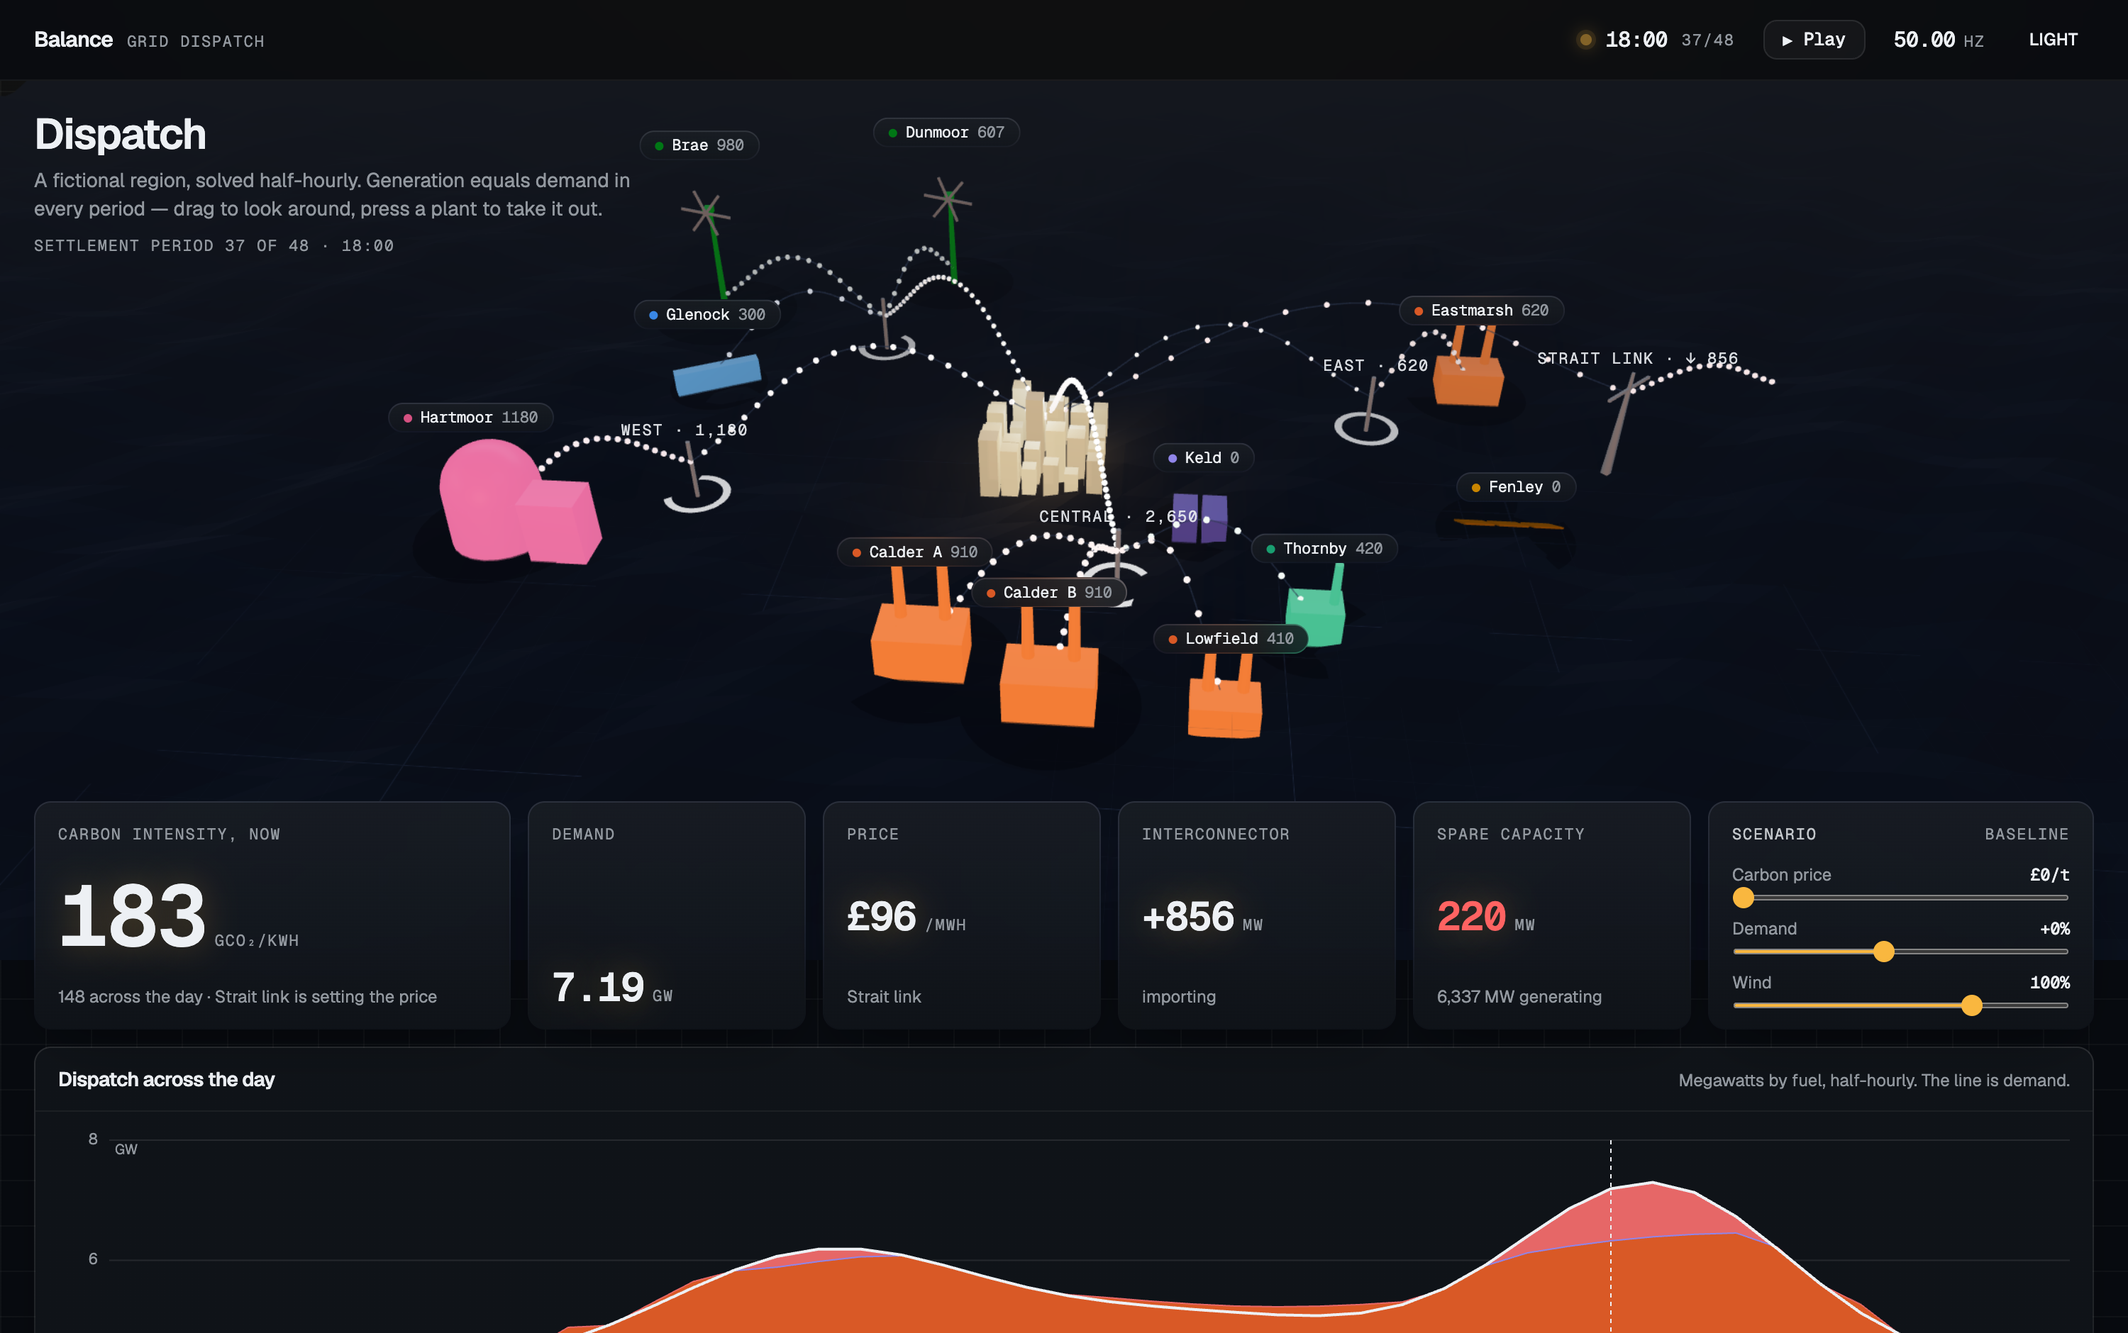
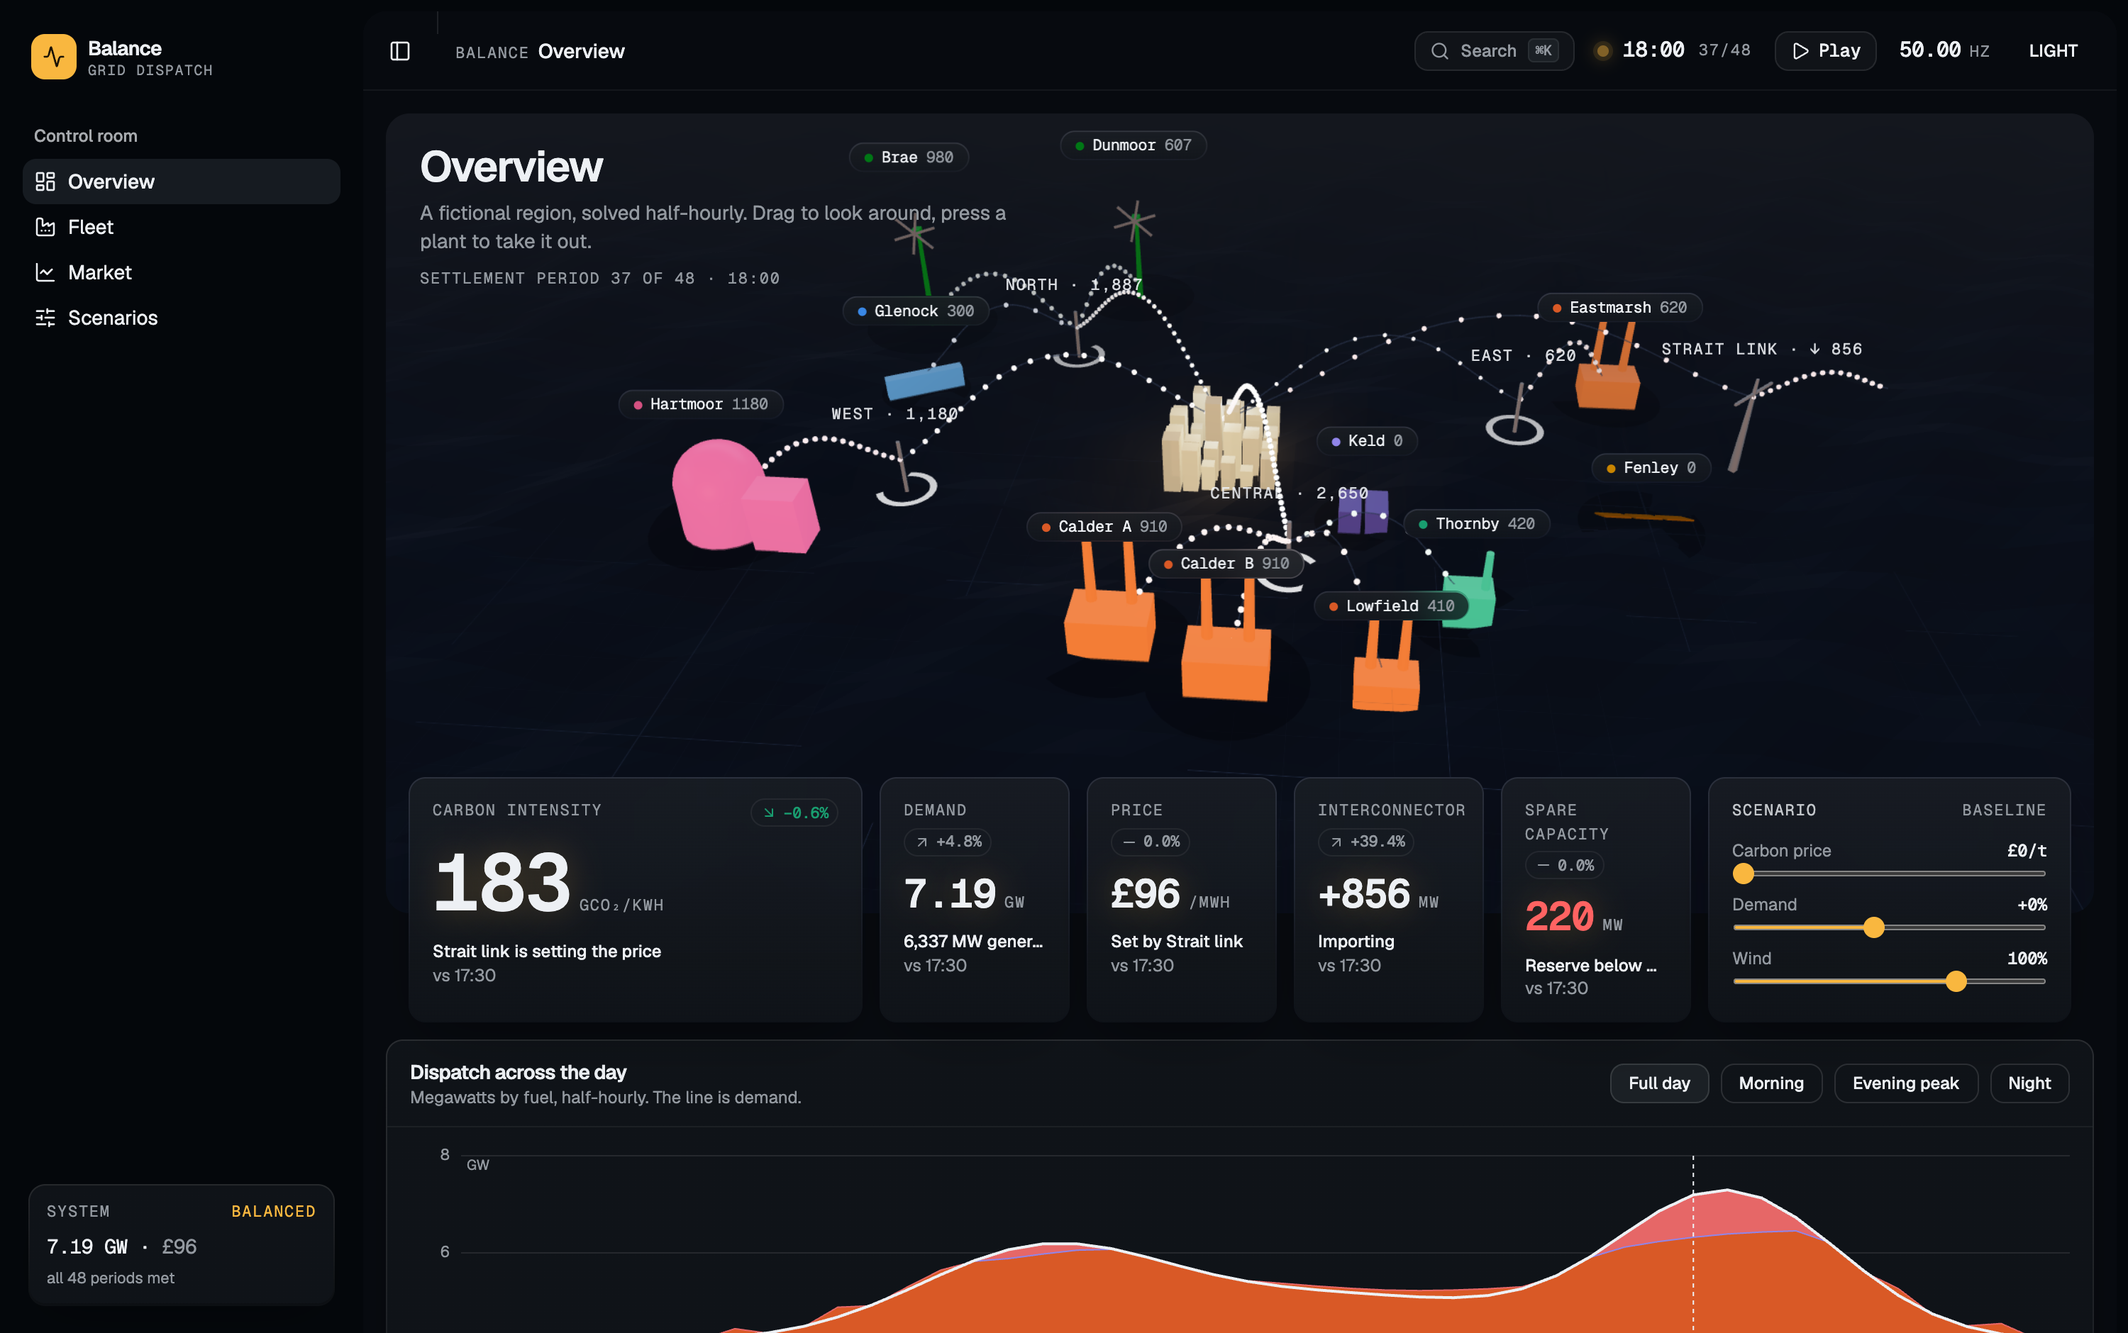
docs: README and screenshots for the product shell; drawer badge clear of its close button

diff --git a/src/features/overview/OverviewPage.tsx b/src/features/overview/OverviewPage.tsx
@@ -84,7 +84,7 @@ export function OverviewPage() {
             decimals={2}
             unit="GW"
             goodWhen="none"
-            insight={`${Math.round(generation).toLocaleString("en-GB")} MW generating`}
+            insight={`${Math.round(generation).toLocaleString("en-GB")} MW on`}
             basis={basis}
           />
           <KpiCard
@@ -118,9 +118,7 @@ export function OverviewPage() {
             unit="MW"
             goodWhen="up"
             tone={headroom < 500 ? "warning" : "normal"}
-            insight={
-              headroom < 500 ? "Reserve below 500 MW" : "Reserve healthy"
-            }
+            insight={headroom < 500 ? "Reserve thin" : "Reserve healthy"}
             basis={basis}
           />
           <ScenarioPanel className="glass col-span-2 lg:col-span-1" />

diff --git a/src/features/fleet/UnitSheet.tsx b/src/features/fleet/UnitSheet.tsx
@@ -74,7 +74,7 @@ export function UnitSheet({
         {unit && out ? (
           <div className="flex h-full flex-col gap-5 overflow-y-auto px-5 pb-6">
             <SheetHeader className="px-0">
-              <div className="flex items-center gap-2">
+              <div className="flex items-center gap-2 pr-8">
                 <span
                   className="size-2.5 rounded-sm"
                   style={{ backgroundColor: fuelVar(unit.fuel as Series) }}

diff --git a/README.md b/README.md
@@ -1,75 +1,75 @@
 # Balance
 
-A control room for a region that does not exist, solved half-hourly, where every number on the screen — and every particle moving across the map — is the output of one model.
-
-Eleven generating units, four nodes, an interconnector and a city, dispatched across forty-eight settlement periods. Press **Play** and the day runs: the sun crosses the region, the solar farm wakes at nine, the city lights come up at dusk, and the instruments roll with the clock. Press a plant to take it out and the whole day re-solves — a dearer unit is called, the price moves, the carbon intensity moves with it, the particles feeding the city from the east thicken, and if the system can no longer meet demand the frequency droops and it says so.
+A grid control room for a region that does not exist, solved half-hourly, built the way a product dashboard is built — a rail, four pages, a command palette, KPI cards that compare against the last half-hour, a table you can filter and page — where every number on every page, and every particle moving across the map, is the output of one model.
 
 **Live:** <https://balance-dispatch.pages.dev>
 
-![The control room at the evening peak: the region in three dimensions, power moving along the lines to the city, the instruments laid over its foot](docs/dashboard.png)
+![Overview: the region in three dimensions, power moving along the lines to the city, KPI cards with their trend against the previous half-hour, the levers](docs/dashboard.png)
 
 ---
 
 ## The one rule
 
-Nothing is typed into a component. Every figure — the tiles, the masthead clock and frequency, the stacked day, the supply curve, the diagram, the table, and the width, count and speed of every particle in the scene — is derived from [`src/lib/grid/`](src/lib/grid), and the arithmetic has one invariant:
+Nothing is typed into a component. Every figure — the rail's status card, the masthead clock and frequency, the KPI trend badges, the stacked day, the supply curve, the settlement table, the events feed, and the width, count and speed of every particle in the scene — is derived from [`src/lib/grid/`](src/lib/grid), and the arithmetic has one invariant:
 
 ```
 generation + imports + unserved === demand + exports
 ```
 
-to within 0.1 MW, in all forty-eight periods, under every lever, and still true with the two largest units out. That is the first test in [`dispatch.test.ts`](src/lib/grid/dispatch.test.ts), and it is the reason the rest of the room can be trusted to agree with itself.
+to within 0.1 MW, in all forty-eight periods, under every lever, and still true with the two largest units out. That is the first test in [`dispatch.test.ts`](src/lib/grid/dispatch.test.ts), and it is the reason four pages can be trusted to agree with each other.
+
+## The pages
+
+**Overview.** The region as a place: plants where they stand, sized by capacity and lit by their output; power as particles, a count of them proportional to the megawatts and a speed set by how hard the plant behind them is working; the sun crossing with the clock, the city lighting at dusk. Beneath it, the instruments: five KPI cards with a trend badge against the previous half-hour, the day stacked by fuel with a range control and a pointer readout, the system as a single-line diagram, and an events feed — every line of it a diff between two consecutive solves.
+
+**Fleet.** The table every template has, with the solver underneath it: tabs by status, search, a fuel filter, a column menu, row selection with a bulk action, sortable headers, status badges, a pager, and a drawer per unit with its day as a sparkline and the one switch that takes it out.
+
+![The fleet table, and the drawer behind a row](docs/fleet-drawer.png)
+
+**Market.** Price and carbon across the day as two charts rather than one with two axes, the supply curve for the selected half-hour, and the settlement run paged twelve half-hours at a time — the statement a trading desk would reconcile against.
+
+![The market: price and carbon across the day, the supply curve, the settlement run](docs/market.png)
+
+**Scenarios.** Three levers — carbon price, demand, wind — five presets worth pressing, and every figure against the baseline. Each comparison is two solves of the same model, nothing interpolated.
+
+![A bad evening: calm, hot and priced — cost up 95%, imports up six-fold, thirteen half-hours short](docs/scenarios.png)
+
+The view's inputs live in the URL — `?out=calder-a,calder-b&carbon=60&demand=1.1&wind=0.4&t=36` — so a scenario is a link somebody can send, and a reload is not a reset. Only inputs are stored, never a result.
+
+![Two gas stations out and a carbon price on, from a link: the plants struck through, the frequency drooping, the rail saying so](docs/shortfall.png)
 
 ## What the model actually does
 
-Not a stacked chart with plausible numbers under it. A merit-order dispatch with the constraints that make the merit order interesting:
+A merit-order dispatch with the constraints that make the merit order interesting:
 
 - **Minimum stable generation.** A thermal plant below its floor is not turned down, it is off. Committing one is a step change, not a slope.
 - **Ramp rates.** Output can only move so fast per period, and the day is solved twice so that midnight is consistent with itself rather than starting cold.
 - **Unit commitment.** Greedy, cheapest first, with must-run plant and free fuel on the system before the market is asked anything.
-- **A constrained-on unit does not set the price.** At 04:00 both Calder stations are generating at £62 and £64 while the region is exporting at £41: they are running because they cannot shut down and restart inside half an hour, not because anybody is paying for them.
+- **A constrained-on unit does not set the price.** At 04:00 both Calder stations are generating at £62 and £64 while the region is exporting at £41: they are running because they cannot shut down and restart inside half an hour, not because anybody is paying for them. The fleet table calls that state *constrained* and gives it its own tab.
 
 The last of those arrived as a failing test. The test asserted that the price equals the cost of the dearest running plant, which is the intuition, and the model disagreed — biomass at £79 was on the system while the price was £71. The model was right and the test was the defect, which is the kind of result that only shows up when the model is real enough to argue with.
 
-### The levers
-
-Three inputs to the same solver, each one a question a visitor might actually ask of a grid:
-
-- **Carbon price**, £0–150 per tonne, charged on every unit in proportion to what it emits — gas at 352 g/kWh gains £17.60 per £50, nuclear and the renewables gain nothing — so the merit order re-sorts itself and the staircase slides into its new order on screen.
-- **Demand**, −20% to +25%: a quiet Sunday or a heatwave, scaled before dispatch, never after.
-- **Wind**, 20% to 130%: a still day or a front coming through.
-
-![Two gas stations out and a £60 carbon price on: the plants struck through and dark, the battery lit, the link flat out, the frequency drooping, the shortfall declared](docs/shortfall.png)
-
-The levers found a defect the baseline could not. With the link importing flat out and a thermal unit committed at its minimum stable output overshooting demand, the surplus branch wrote the export straight over the import — 1,000 MW vanished from the books. The baseline never reaches that state: only the battery sits behind the import in its merit order, and a battery has no minimum stable output. A £150 carbon price put gas behind the import, and the balance test failed in the first period. The link now gives back import before it exports, which is also what a control room does.
+The levers found a second defect the baseline could not reach. With the link importing flat out and a thermal unit committed at its minimum stable output overshooting demand, the surplus branch wrote the export straight over the import — 1,000 MW vanished from the books. A £150 carbon price put gas behind the import, and the balance test failed in the first period. The link now gives back import before it exports, which is also what a control room does.
 
 ## The room
 
-Dark by default, because the room it is modelled on is dark: a wall of instruments read from across a desk, where the surface recedes and the figures and the live marks carry the light. Every surface is biased a few steps toward blue so the fuel colours sit on something with a temperature; every figure is set in a mono instrument face so the digits hold still as the clock runs; one amber means *live* — the clock, the playhead, the ring on whatever has focus — and is used for nothing else. The light theme is designed rather than inverted.
+Dark by default, because the room it is modelled on is dark. Every surface is biased a few steps toward blue so the fuel colours sit on something with a temperature; every figure is set in a mono instrument face so the digits hold still as the clock runs; one amber means *live* and is used for nothing else. The light theme is designed rather than inverted.
 
-![The light theme: the same room on cool paper](docs/light.png)
+![The light theme](docs/light.png)
 
-**The region** is a [React Three Fiber](src/features/scene/RegionScene.tsx) scene that fetches nothing — three light panels baked once, a terrain of three sines, colours read from the page's own stylesheet so the plants are exactly the hues the charts use. Plants stand where they stand, sized by capacity and lit by their output. Power moves as particles: each line carries a count of them proportional to its megawatts, travelling at a speed set by how hard the plant behind them is working, so a nuclear station flat out and a battery flat out move at the same speed and are nothing like the same stream. Drag to orbit; a viewport-aware camera pulls back and widens the lens on a phone; where there is no WebGL the single-line diagram stands in.
+The scene is [React Three Fiber](src/features/scene/RegionScene.tsx) and fetches nothing — three light panels baked once, a terrain of three sines, colours read from the page's own stylesheet so the plants are exactly the hues the charts use. It arrives in its own chunk after the instruments have painted, a viewport-aware camera pulls back and widens on a phone, and where there is no WebGL the single-line diagram stands in. Its labels are ordinary DOM moved by a projector each frame rather than drei's portalled `<Html>`, which on React 19 removes a node its parent has already removed every time the page is left.
 
-**The clock** runs the day in 720 ms half-hours. Figures roll rather than jump, the dispatch bands slide to their new shape, the playhead glides, and the masthead carries the time, a live lamp and the system frequency — 50.00 Hz on a balanced system, derived from the solver's unserved demand and falling when it is short.
-
-![The day, stacked by fuel, with the demand line over the top and the playhead at 18:00](docs/day.png)
-
-![The system as a single-line diagram: every unit on its own row, feeding its node, feeding one busbar](docs/schematic.png)
-
-The fuel palette is checked rather than chosen: eight categorical hues validated for deuteranopia, protanopia and tritanopia separation, normal-vision separation and contrast against each theme's card surface, with a separate set of steps for the dark theme. Four hues sit under 3:1 on their surface, which is why every series also has a labelled readout and a table, and identity is never carried by colour alone.
+The fuel palette is checked rather than chosen: eight categorical hues validated for deuteranopia, protanopia and tritanopia separation, normal-vision separation and contrast against each theme's card surface. Four hues sit under 3:1 on their surface, which is why every series also has a labelled readout and a table.
 
 ## The checks
 
-Eleven Vitest tests on the model. Thirty-three Playwright checks in [`e2e/`](e2e), run against the production bundle on a desktop and a Pixel 7.
+Seventeen Vitest tests on the model and the readings derived from it. Forty-four Playwright checks in [`e2e/`](e2e), run against the production bundle on a desktop and a Pixel 7.
 
-The load-bearing one is [`figures.spec.ts`](e2e/figures.spec.ts). The rule above is that no number is typed into a component, and a unit test cannot see that — it can only check the solver, and the solver was never what was at risk. So the browser re-solves the day from the view's own inputs and compares the result against the text actually painted, in three states: at rest, after the period changes, and with two units offline.
+The load-bearing one is [`figures.spec.ts`](e2e/figures.spec.ts). The rule above is that no number is typed into a component, and a unit test cannot see that — it can only check the solver, and the solver was never what was at risk. So the browser re-solves the day from the view's own inputs and compares the result against the text actually painted — on the overview and row by row on the fleet page, at rest, after the period changes, and with two units offline.
 
-[`layout.spec.ts`](e2e/layout.spec.ts) measures the painted size of every piece of text inside every SVG, at four viewport widths, and fails below 9px. It exists because the dispatch chart set its axis labels in viewBox units: 11px in the source, four pixels on a phone. That is not small type, it is no type, and it passed every other check there was.
+[`layout.spec.ts`](e2e/layout.spec.ts) measures the painted size of every piece of text inside every SVG at four widths and fails below 9px, because the dispatch chart once set its axis labels in viewBox units: 11px in the source, four pixels on a phone. [`shell.spec.ts`](e2e/shell.spec.ts) drives the rail, the palette, the table's tabs, search, column menu, selection, drawer and pager, the settlement run's pages and a scenario preset.
 
-[`levers.spec.ts`](e2e/levers.spec.ts) presses Play and watches the clock move, prices carbon and watches the system get dearer and no dirtier, stills the wind and watches the link take the strain.
-
-**Neither of the first two was trusted until the bug it was written for had been put back.** Typing a fixed `£96` into the price tile is invisible at 18:00, where £96 happens to be the right answer, and fails the moment the period moves or a unit trips. Putting the merit curve back on a fixed canvas fails at 390px and nowhere else — which is exactly where that bug bites.
+Three defects in the product that only the browser suite found, none of them in the specs: cmdk's input rendering outside cmdk's root inside the Base UI dialog, drei's labels tearing down a removed node on navigation, and Base UI's `DropdownMenuLabel` throwing outside a `DropdownMenuGroup` — the column menu was crashing the fleet page in production. **No check here is trusted until the bug it was written for has been put back**: typing a fixed `£96` into the price tile is invisible at 18:00, where £96 is the right answer, and fails the moment the period moves.
 
 ## Running it
 
@@ -90,7 +90,7 @@ npm run deploy       # builds and ships dist/ to Cloudflare Pages
 
 ## Stack
 
-Vite 8 · React 19.3 with the React Compiler · TypeScript 6 · Tailwind CSS v4 · shadcn/ui on Base UI · React Router 8 · three 0.186 / React Three Fiber 9.8 / drei · Motion 14 · Vitest 5 · Playwright · Cloudflare Pages.
+Vite 8 · React 19.3 with the React Compiler · TypeScript 6 · Tailwind CSS v4 · shadcn/ui on Base UI · React Router 8 · three 0.186 / React Three Fiber 9.8 / drei · Motion 14 · cmdk · Vitest 5 · Playwright · Cloudflare Pages.
 
 No charting library: every mark is an SVG path built from the solved periods, so the geometry and the figures cannot come from different places.
 
